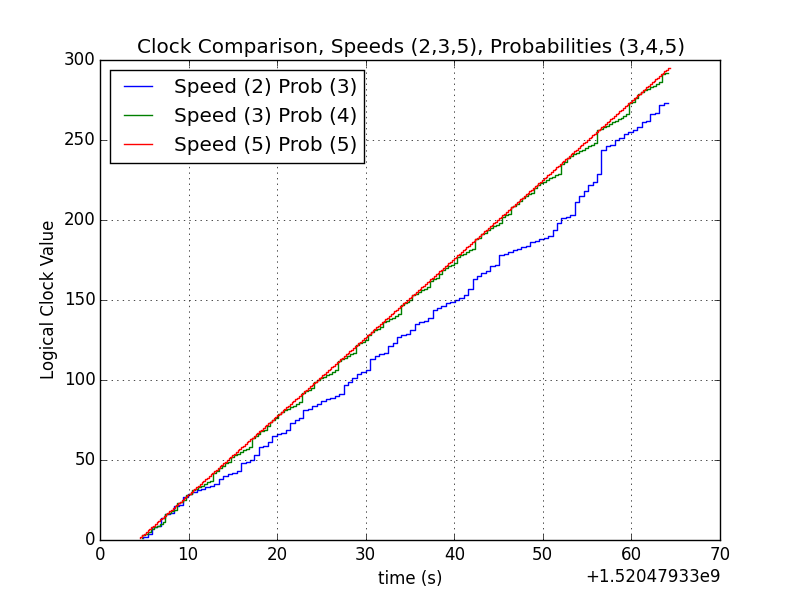
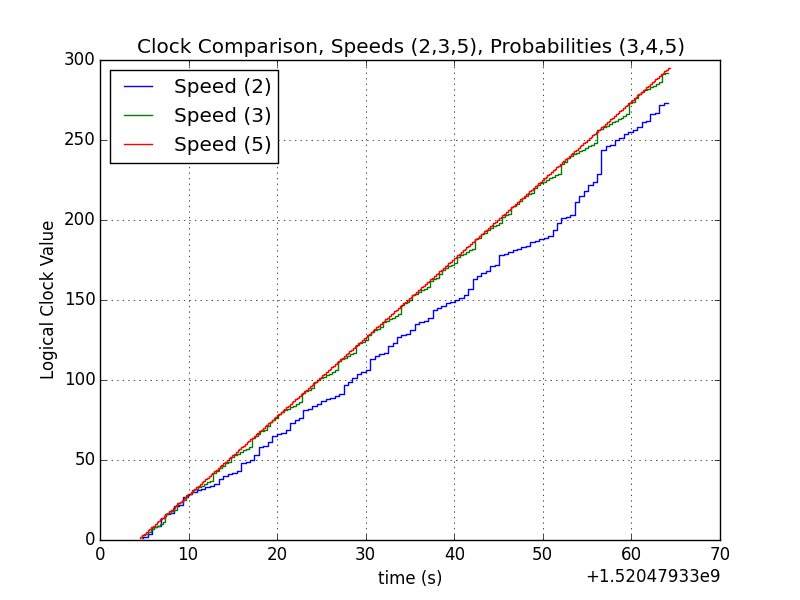
Legend shouldn't include probabilities.

Changed region(s): [[0.3438, 0.09, 0.4688, 0.3]]

diff --git a/plots.py b/plots.py
@@ -27,7 +27,7 @@ def plot_clocks(trial,speeds,probs):
             data = [(get_time(line,"System Time","|"), int(line.split("Logical Clock")[1].strip())) for line in content]
             times = [packet[0] for packet in data]
             clocks = [packet[1] for packet in data]
-            pt.step(times,clocks, label="Speed (%s) Prob (%s)" % (speeds[i], probs[i]))
+            pt.step(times,clocks, label="Speed (%s)" % (speeds[i]))
         pt.grid(True)
         pt.xlabel('time (s)')
         pt.ylabel('Logical Clock Value')
